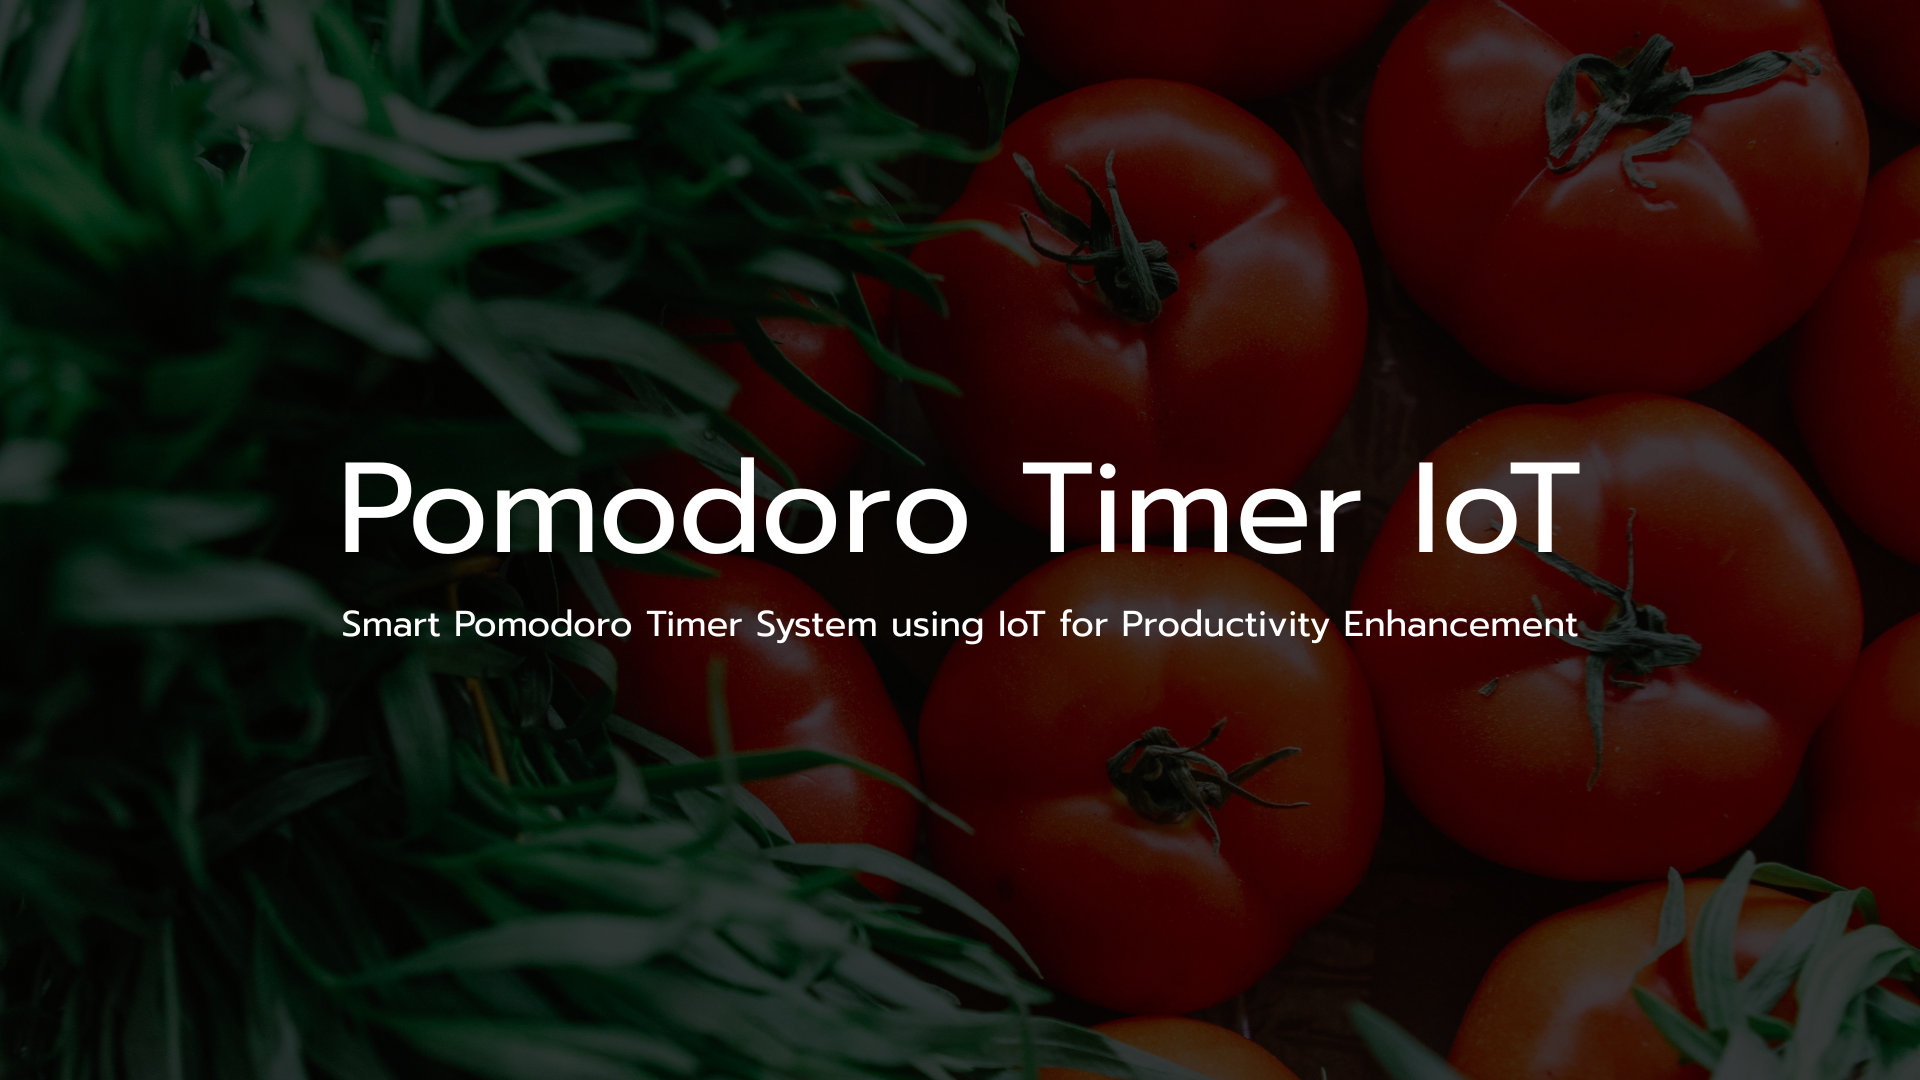
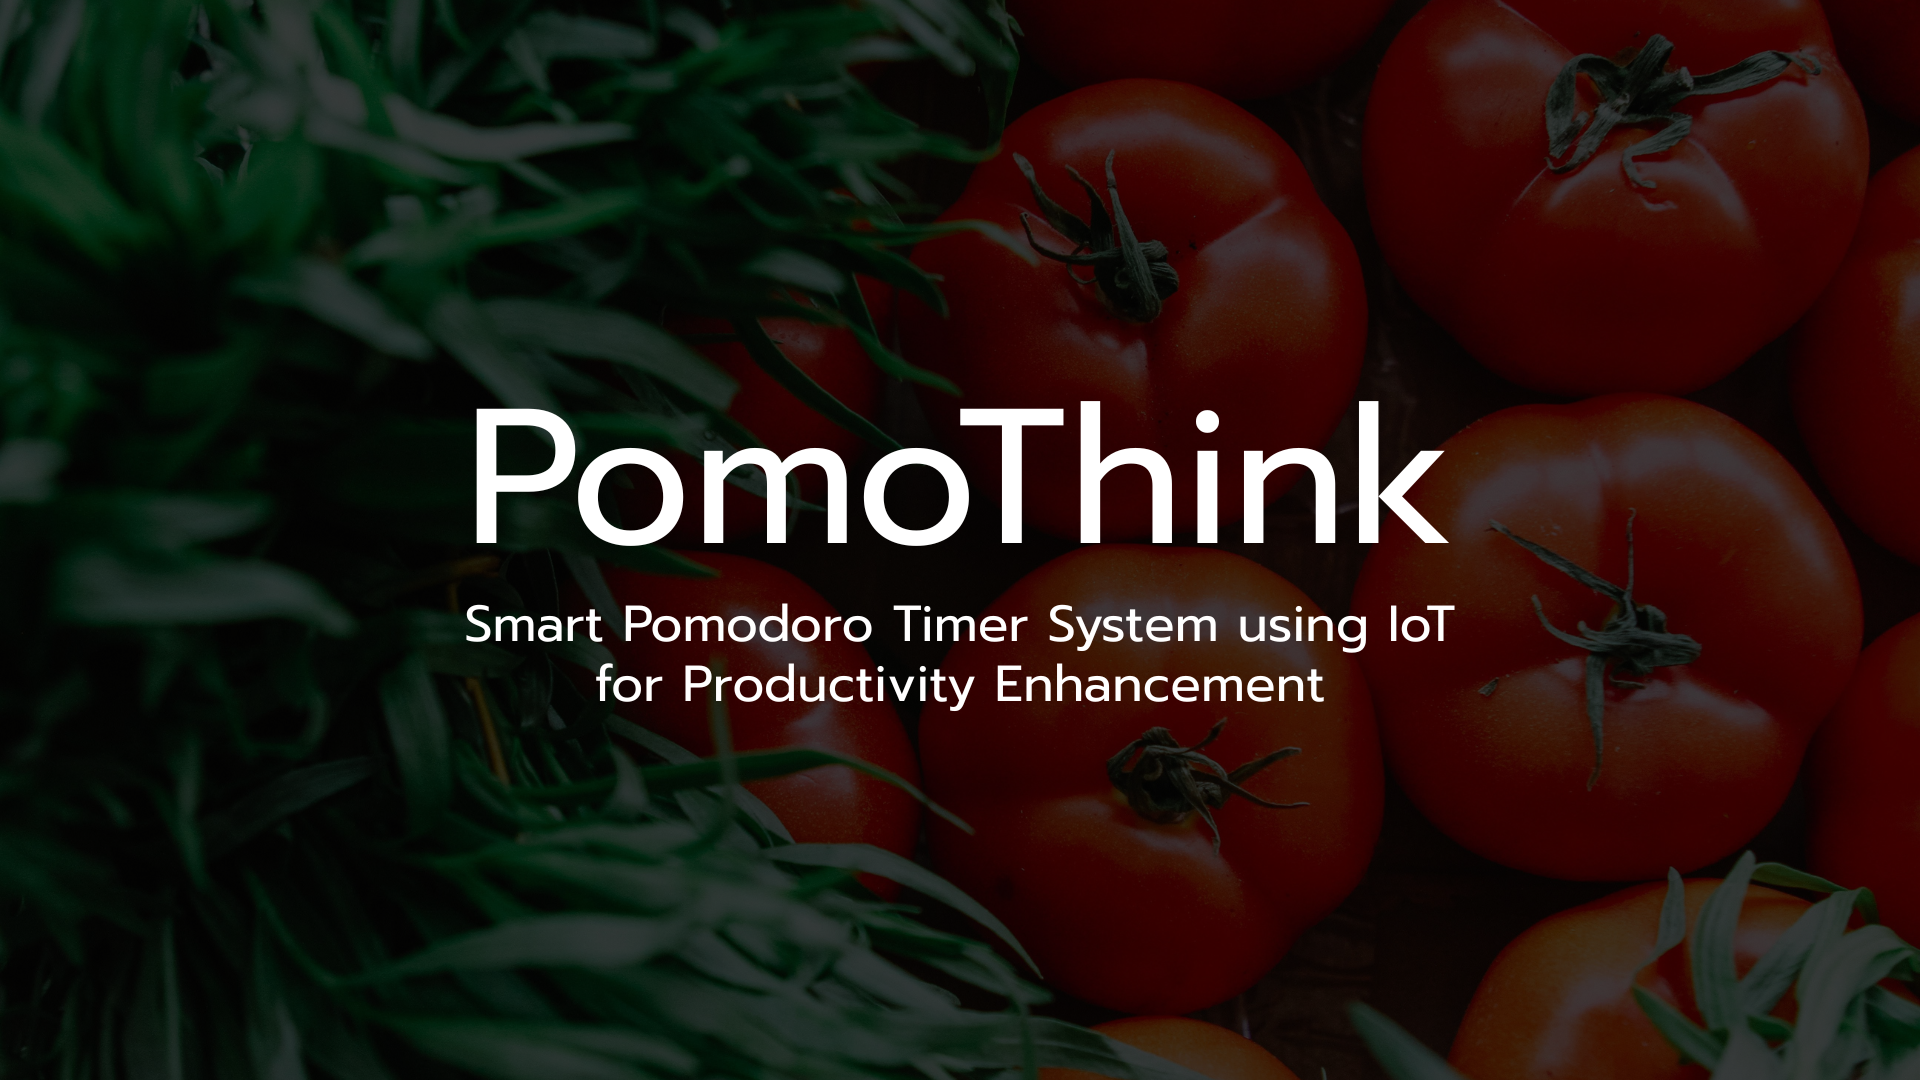
Update footer and backdrop image

Changed region(s): [[0.1562, 0.3667, 0.8438, 0.5194], [0.1875, 0.55, 0.8125, 0.6722]]

diff --git a/website/detail.html b/website/detail.html
@@ -5,30 +5,36 @@
     <meta name="viewport" content="width=device-width, initial-scale=1.0">
     <link href="https://cdn.jsdelivr.net/npm/bootstrap@5.3.3/dist/css/bootstrap.min.css" rel="stylesheet">
     <script src="https://cdn.jsdelivr.net/npm/bootstrap@5.3.3/dist/js/bootstrap.bundle.min.js"></script>
+    <!-- MARK: font import -->
     <link rel="preconnect" href="https://fonts.googleapis.com">
     <link rel="preconnect" href="https://fonts.gstatic.com" crossorigin>
     <link href="https://fonts.googleapis.com/css2?family=Prompt:ital,wght@0,100;0,200;0,300;0,400;0,500;0,600;0,700;0,800;0,900;1,100;1,200;1,300;1,400;1,500;1,600;1,700;1,800;1,900&display=swap" rel="stylesheet">
+    <!-- MARK: code import -->
     <script src="https://emgithub.com/embed-v2.js?target=https%3A%2F%2Fgithub.com%2FWissanupongChanliem%2FPomodoro-Timer-IOT%2Fblob%2Fmain%2Fpomodoro.ino&style=github&type=code&showLineNumbers=on&showFullPath=on"></script>
-    <title>Pomodoro Timer IoT</title>
+    <title>PomoThink</title>
     <style>
         #section1, #section2, #section3, #section4
         {
-            scroll-margin-top: 8vh;
+            scroll-margin-top: 10vh;
+        }
+        .navbar-toggler:focus
+        {
+            box-shadow: none;
         }
     </style>
 </head>
 <body style="font-family: 'Prompt';" data-bs-spy="scroll" data-bs-target=".navbar" data-bs-offset="50">
     <!-- MARK: navigation bar -->
-    <nav class="navbar navbar-expand-md bg-dark navbar-dark p-3 sticky-top">
+    <nav class="navbar navbar-expand-md bg-dark navbar-dark p-3 mb-4 sticky-top">
         <div class="container-fluid">
-            <a class="navbar-brand" href="index.html">Pomodoro Timer IoT</a>
+            <a class="navbar-brand" href="index.html">PomoThink</a>
             <button class="navbar-toggler" type="button" data-bs-toggle="collapse" data-bs-target="#collapsibleNavbar">
                 <span class="navbar-toggler-icon"></span>
             </button>
             <div class="collapse navbar-collapse justify-content-end" id="collapsibleNavbar">
                 <ul class="navbar-nav">
                     <li class="nav-item">
-                        <a class="nav-link" href="#section1">What About?</a>
+                        <a class="nav-link" href="#section1">About Project</a>
                     </li>
                     <li class="nav-item">
                         <a class="nav-link" href="#section2">Source Code</a>
@@ -44,28 +50,30 @@
         </div>
     </nav>
     <!-- MARK: context -->
-    <div id="section1" class="container p-5">
-        <h1>What About?</h1>
-        <p>Lorem ipsum dolor sit amet consectetur adipisicing elit. Debitis, suscipit. Tempore quis unde saepe voluptatibus ut soluta alias? Consequuntur, adipisci! Exercitationem fugiat explicabo nostrum quaerat facere debitis dicta? Eligendi, iusto!</p>
+    <div id="section1" class="container p-4">
+        <h1>About Project</h1>
         <img class="img-fluid rounded shadow" src="../image/backdrop/pomodoro_text.png">
         <hr>
+        <h3>Abstract</h3>
+        <p>Lorem ipsum dolor sit amet consectetur adipisicing elit. Debitis, suscipit. Tempore quis unde saepe voluptatibus ut soluta alias? Consequuntur, adipisci! Exercitationem fugiat explicabo nostrum quaerat facere debitis dicta? Eligendi, iusto!</p>
+        <br>
         <h3>What make this project special?</h3>
         <p>Lorem ipsum dolor sit amet, consectetur adipisicing elit. Impedit porro a non voluptates dolores deserunt? Necessitatibus quibusdam, voluptatibus unde perferendis totam labore. Facere, deserunt vel. Voluptatem dicta nihil dolorum laboriosam.</p>
     </div>
     <!-- MARK: source code -->
-    <div id="section2" class="container p-5">
+    <div id="section2" class="container p-4">
         <h1>Source Code</h1>
         <iframe class="shadow" style="overflow-x: auto; overflow-y: scroll; width:100%; height:75vh; border: 1px solid #D2D2D2; border-radius: 5px;" src="https://emgithub.com/iframe.html?target=https%3A%2F%2Fgithub.com%2FWissanupongChanliem%2FPomodoro-Timer-IOT%2Fblob%2Fmain%2Fpomodoro.ino&style=github&type=code&showLineNumbers=on&showFullPath=on"></iframe>
     </div>
     <!-- MARK: video -->
-    <div id="section3" class="container p-5">
+    <div id="section3" class="container p-4">
         <h1>Tutorial</h1>
         <div class="ratio ratio-16x9">
             <iframe class="shadow" src="https://www.youtube.com/embed/h-vRZK-d9gM" style="border-radius: 5px;" allowfullscreen></iframe>
         </div>
     </div>
     <!-- MARK: member -->
-    <div id="section4" class="container p-5">
+    <div id="section4" class="container p-4">
         <h1>Our Team</h1>
         <div class="row">
             <div class="col-lg-3 col-md-6 col-sm-12">
@@ -119,13 +127,16 @@
         </div>
     </div>
     <!-- MARK: footer -->
-    <div class="container-fluid bg-dark text-white text-center">
-        <div class="container pt-4 pb-4 ps-5 pe-5">
-            Made with 🔥 by
-            <a class="text-white text-decoration-none" href="https://github.com/CyanKagami" target="_blank">CyanKagami</a>,
-            <a class="text-white text-decoration-none" href="https://github.com/GEOFFCHARGE" target="_blank">GEOFFCHARGE</a>,
-            <a class="text-white text-decoration-none" href="https://github.com/Wissanupong-Chanliem" target="_blank">WissanupongChanliem</a> &
-            <a class="text-white text-decoration-none" href="https://github.com/67070179Smith" target="_blank">67070179Smith</a>.
+    <div class="container-fluid bg-dark text-white">
+        <div class="container p-4 fs-6 fw-light d-flex flex-wrap justify-content-between">
+            © 2025 PomoThink
+            <div>
+                Made with 🔥 by
+                <a class="text-white text-decoration-none" href="https://github.com/CyanKagami" target="_blank">@CyanKagami</a> &
+                <a class="text-white text-decoration-none" href="https://github.com/GEOFFCHARGE" target="_blank">@GEOFFCHARGE</a> &
+                <a class="text-white text-decoration-none" href="https://github.com/Wissanupong-Chanliem" target="_blank">@WissanupongChanliem</a> &
+                <a class="text-white text-decoration-none" href="https://github.com/67070179Smith" target="_blank">@67070179Smith</a>
+            </div>
         </div>
     </div>
 </body>

diff --git a/website/index.html b/website/index.html
@@ -5,21 +5,26 @@
     <meta name="viewport" content="width=device-width, initial-scale=1.0">
     <link href="https://cdn.jsdelivr.net/npm/bootstrap@5.3.3/dist/css/bootstrap.min.css" rel="stylesheet">
     <script src="https://cdn.jsdelivr.net/npm/bootstrap@5.3.3/dist/js/bootstrap.bundle.min.js"></script>
+    <!-- MARK: font import -->
     <link rel="preconnect" href="https://fonts.googleapis.com">
     <link rel="preconnect" href="https://fonts.gstatic.com" crossorigin>
     <link href="https://fonts.googleapis.com/css2?family=Prompt:ital,wght@0,100;0,200;0,300;0,400;0,500;0,600;0,700;0,800;0,900;1,100;1,200;1,300;1,400;1,500;1,600;1,700;1,800;1,900&display=swap" rel="stylesheet">
-    <title>Pomodoro Timer IoT</title>
+    <title>PomoThink</title>
     <style>
         #section1, #section2
         {
-            scroll-margin-top: 7vh;
+            scroll-margin-top: 9vh;
+        }
+        .navbar-toggler:focus
+        {
+            box-shadow: none;
         }
     </style>
 </head>
 <body style="font-family: 'Prompt';" data-bs-spy="scroll" data-bs-target=".navbar" data-bs-offset="50">
     <!-- MARK: selection page -->
-    <div class="container-fluid p-5 d-flex flex-column justify-content-center align-items-center vh-100 text-white text-center" style="background-image: url('../image/backdrop/pomodoro.png'); background-size: cover; background-position: center; background-attachment: fixed;">
-        <h1>Pomodoro Timer IoT</h1>
+    <div class="container-fluid p-4 d-flex flex-column justify-content-center align-items-center vh-100 text-white text-center" style="background-image: url('../image/backdrop/pomodoro.png'); background-size: cover; background-position: center; background-attachment: fixed;">
+        <h1>PomoThink</h1>
         <p>Smart Pomodoro Timer System using IoT for Productivity Enhancement</p>
         <div class="d-flex pt-3 justify-content-center">
             <a href="#section0" class="btn btn-outline-light me-3 ps-3 pe-3">Summary</a>
@@ -27,9 +32,9 @@
         </div>
     </div>
     <!-- MARK: navigation bar -->
-    <nav id="section0" class="navbar navbar-expand-sm bg-dark navbar-dark p-3 sticky-top">
+    <nav id="section0" class="navbar navbar-expand-sm bg-dark navbar-dark p-3 mb-4 sticky-top">
         <div class="container-fluid">
-            <a class="navbar-brand" href="index.html">Pomodoro Timer IoT</a>
+            <a class="navbar-brand" href="index.html">PomoThink</a>
             <button class="navbar-toggler" type="button" data-bs-toggle="collapse" data-bs-target="#collapsibleNavbar">
                 <span class="navbar-toggler-icon"></span>
             </button>
@@ -46,25 +51,28 @@
         </div>
     </nav>
     <!-- MARK: dashboard -->
-    <div id="section1" class="container p-5">
+    <div id="section1" class="container p-4">
         <h1>Dashboard</h1>
         <p>Lorem ipsum dolor sit amet consectetur adipisicing elit. Perspiciatis possimus impedit, recusandae, eum officiis optio, inventore cumque vel voluptatibus distinctio alias. Sequi, nostrum officiis impedit consectetur excepturi amet deserunt voluptatibus.</p>
         <img class="img-fluid rounded shadow" src="../image/backdrop/pomodoro_text.png">
     </div>
     <!-- MARK: statistic -->
-    <div id="section2" class="container p-5 mb-4">
+    <div id="section2" class="container p-4 mb-4">
         <h1>Statistic</h1>
         <p>Lorem ipsum dolor sit amet, consectetur adipisicing elit. Cumque dolor distinctio quo excepturi, nostrum praesentium exercitationem iusto alias vero laborum sed nobis omnis aperiam, quam amet explicabo facilis ex porro!</p>
         <img class="img-fluid rounded shadow" src="../image/backdrop/pomodoro_text.png">
     </div>
     <!-- MARK: footer -->
-    <div class="container-fluid bg-dark text-white text-center">
-        <div class="container pt-4 pb-4 ps-5 pe-5">
-            Made with 🔥 by
-            <a class="text-white text-decoration-none" href="https://github.com/CyanKagami" target="_blank">CyanKagami</a>,
-            <a class="text-white text-decoration-none" href="https://github.com/GEOFFCHARGE" target="_blank">GEOFFCHARGE</a>,
-            <a class="text-white text-decoration-none" href="https://github.com/Wissanupong-Chanliem" target="_blank">WissanupongChanliem</a> &
-            <a class="text-white text-decoration-none" href="https://github.com/67070179Smith" target="_blank">67070179Smith</a>.
+    <div class="container-fluid bg-dark text-white">
+        <div class="container p-4 fs-6 fw-light d-flex flex-wrap justify-content-between">
+            © 2025 PomoThink
+            <div>
+                Made with 🔥 by
+                <a class="text-white text-decoration-none" href="https://github.com/CyanKagami" target="_blank">@CyanKagami</a> &
+                <a class="text-white text-decoration-none" href="https://github.com/GEOFFCHARGE" target="_blank">@GEOFFCHARGE</a> &
+                <a class="text-white text-decoration-none" href="https://github.com/Wissanupong-Chanliem" target="_blank">@WissanupongChanliem</a> &
+                <a class="text-white text-decoration-none" href="https://github.com/67070179Smith" target="_blank">@67070179Smith</a>
+            </div>
         </div>
     </div>
 </body>

diff --git a/README.md b/README.md
@@ -1,8 +1,8 @@
 # Physical Computing Project 2025 - IT KMITL
 
-![Pomodoro Timer Backdrop](/image/backdrop/pomodoro_text.png)
+![](/image/backdrop/pomodoro_text.png)
 
-# Pomodoro Timer IoT 🍅
+# PomoThink 🍅
 > Smart Pomodoro Timer System using IoT for Productivity Enhancement
 
 Lorem ipsum dolor sit amet consectetur adipisicing elit. Provident, voluptatum. In aliquid reprehenderit praesentium quidem ut similique nostrum voluptatem esse placeat ipsam optio aperiam ex itaque, quae pariatur eveniet suscipit.
